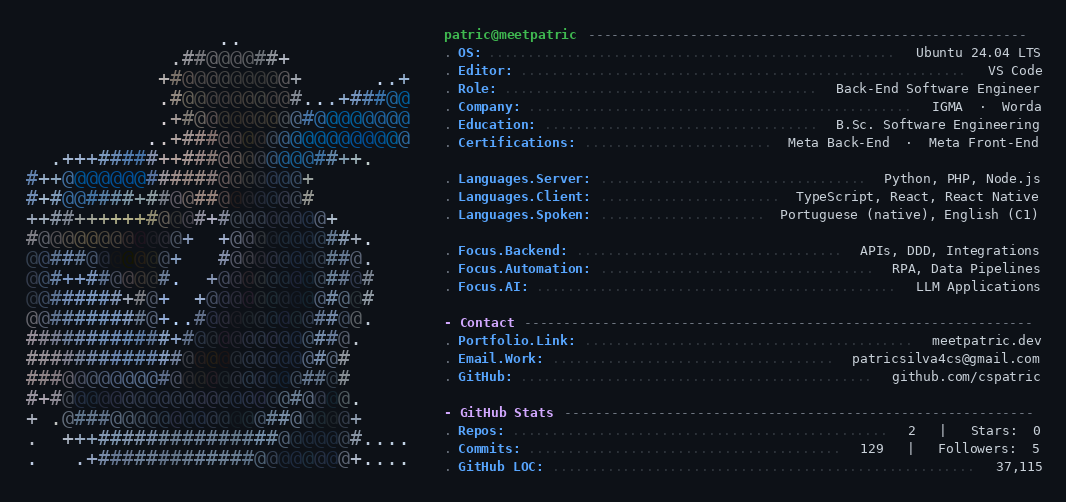
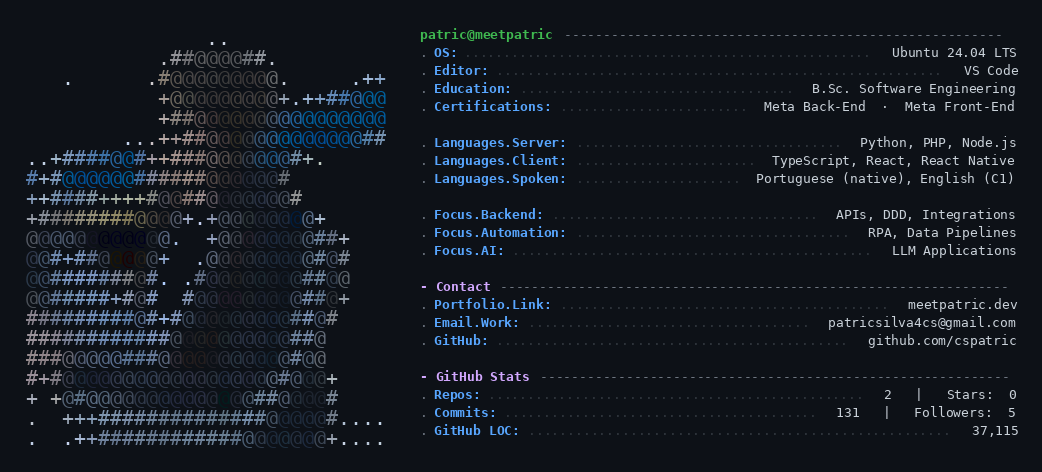
tira cargo e empresas da capa

diff --git a/.assets/gerar-capa.py b/.assets/gerar-capa.py
@@ -174,8 +174,6 @@ def montar_painel():
         ("titulo", "patric@meetpatric", ""),
         ("linha", "OS:", "Ubuntu 24.04 LTS"),
         ("linha", "Editor:", "VS Code"),
-        ("linha", "Role:", "Back-End Software Engineer"),
-        ("linha", "Company:", "IGMA  ·  Worda"),
         ("linha", "Education:", "B.Sc. Software Engineering"),
         ("linha", "Certifications:", "Meta Back-End  ·  Meta Front-End"),
         ("vazio", "", ""),
